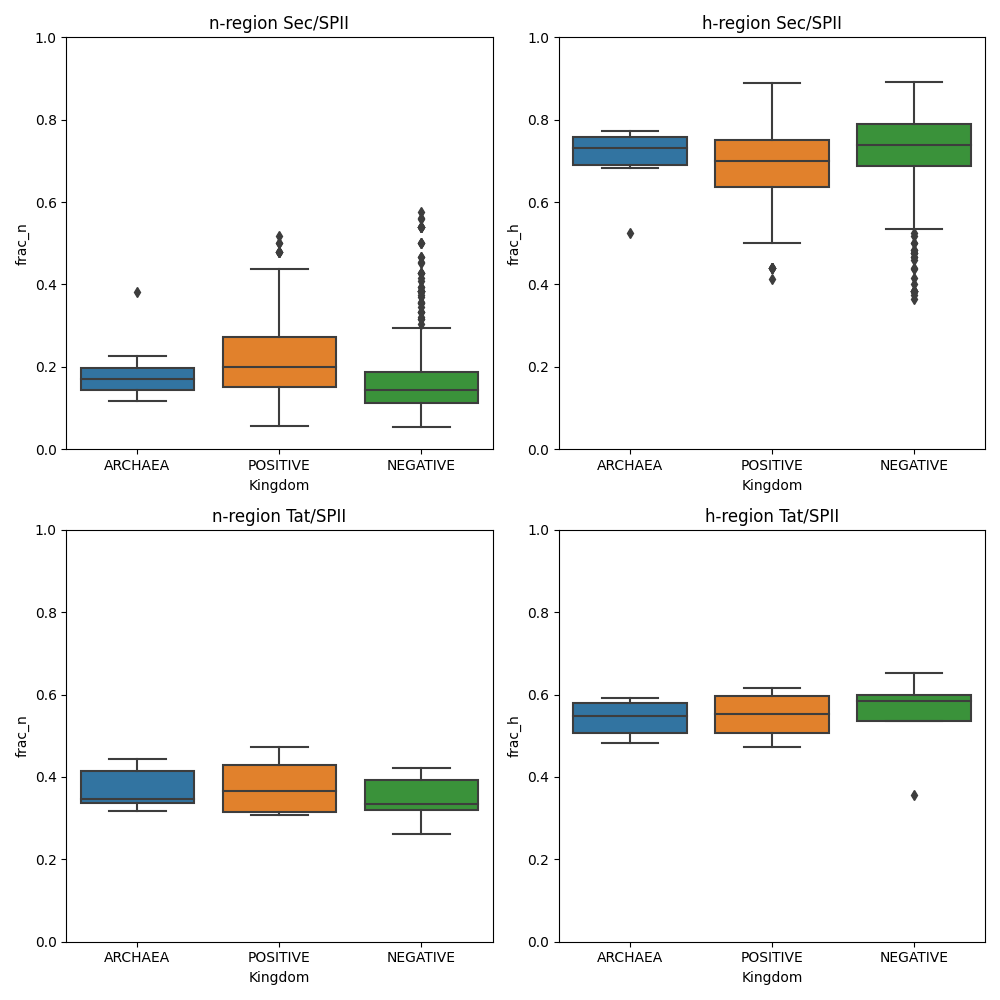
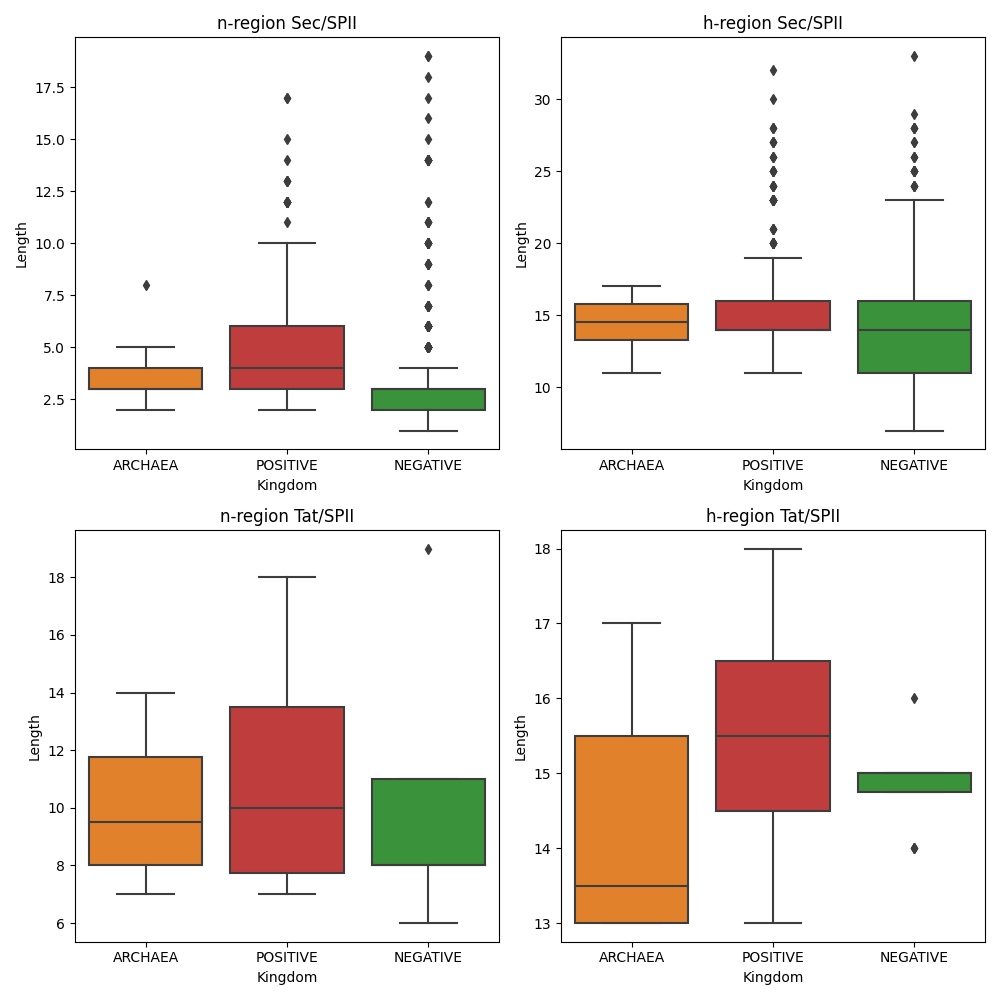
added more plots for spii and spiii for completeness

diff --git a/sp_prediction_experiments/signalp_6_evaluation_scripts/make_figures.py b/sp_prediction_experiments/signalp_6_evaluation_scripts/make_figures.py
@@ -29,7 +29,7 @@ def get_sp_len(token_ids):
 
 def get_n_len(token_ids):
     token_ids = np.array(token_ids)
-    sp_pos = np.isin(token_ids, [3,9,16,23])
+    sp_pos = np.isin(token_ids, [3,9,16,23, 31])
     pos_indices = np.where(sp_pos)[0]
     return pos_indices.max() - pos_indices.min() +1 if len(pos_indices) >0 else np.nan
 
@@ -52,7 +52,7 @@ def count_aas(sequence, token_ids, skip_n_methionine=False):
     
     sequence = np.array([aas[x] for x in sequence])
     #count aas in n
-    sp_pos = np.where(np.isin(token_ids, [3,9,16,23]))[0]
+    sp_pos = np.where(np.isin(token_ids, [3,9,16,23,31]))[0]
     if len(sp_pos)>0:
         start = 1 if skip_n_methionine else sp_pos.min()
         end = sp_pos.max() +1
@@ -456,6 +456,45 @@ def main():
         plt.savefig(os.path.join(args.output_dir, 'spi_charges.png'))
 
 
+        ##SPII charges
+        plot_df = df.loc[df['Type'] =='LIPO']
+        plt.figure(figsize = (10,10))
+        ax = plt.subplot(2,2,1)
+        sns.boxplot(x="Kingdom", y="charge_n", data=plot_df, palette=palette, hue_order=hue_order)
+        plt.ylabel('Net charge')
+        plt.title('n-region Sec/SPII')
+
+        plt.subplot(2,2,2, sharey=ax)
+        sns.boxplot(x="Kingdom", y="charge_h", data=plot_df, palette=palette, hue_order=hue_order)
+        plt.ylabel('Net charge')
+        plt.title('h-region Sec/SPII')
+
+        plot_df = df.loc[df['Type'] =='TATLIPO']
+        ax = plt.subplot(2,2,3)
+        sns.boxplot(x="Kingdom", y="charge_n", data=plot_df, palette=palette, hue_order=hue_order)
+        plt.ylabel('Net charge')
+        plt.title('n-region Tat/SPII')
+
+        plt.subplot(2,2,4, sharey=ax)
+        sns.boxplot(x="Kingdom", y="charge_h", data=plot_df, palette=palette, hue_order=hue_order)
+        plt.ylabel('Net charge')
+        plt.title('h-region Tat/SPII')
+
+        plt.tight_layout()
+        plt.savefig(os.path.join(args.output_dir, 'spii_charges.png'))
+        plt.close()
+
+        ## SPIII charges
+        plot_df = df.loc[df['Type'] =='PILIN']
+        plt.figure(figsize = (5,5))
+        sns.boxplot(x="Kingdom", y="charge_n", data=plot_df, palette=palette, hue_order=hue_order)
+        plt.ylabel('Net charge')
+        plt.title('Sec/SPIII')
+
+        plt.savefig(os.path.join(args.output_dir, 'spiii_charges.png'))
+        plt.close()
+
+
         ## n-region hydrophobicity
         plt.figure(figsize = (20,5))
 
@@ -485,7 +524,7 @@ def main():
         
         plt.tight_layout()
         plt.savefig(os.path.join(args.output_dir, 'n_region_hydrophobicity.png'))
-
+        plt.close()
 
         ## h-region hydrophobicity
         plt.figure(figsize = (20,5))
@@ -516,7 +555,8 @@ def main():
         
         plt.tight_layout()
         plt.savefig(os.path.join(args.output_dir, 'h_region_hydrophobicity.png'))
-
+        plt.close()
+        
         ## c-region hydrophobicity
         plt.figure(figsize = (10,5))
 
@@ -535,7 +575,16 @@ def main():
 
         plt.tight_layout()
         plt.savefig(os.path.join(args.output_dir, 'c_region_hydrophobicity.png'))
+        plt.close()
 
+        ## SPIII hydrophobicity
+        plot_df = df.loc[df['Type'] =='PILIN']
+        plt.figure(figsize = (5,5))
+        sns.boxplot(x="Kingdom", y="hydrophobicity_n", data=plot_df, palette=palette, hue_order=hue_order)
+        plt.ylabel('Hydrophobicity')
+        plt.title('Sec/SPIII')
+        plt.savefig(os.path.join(args.output_dir, 'spiii_hydrophobicity.png'))
+        plt.close()
 
         ## amino acid compositions per region, per kingdom, per class
         dist_list = []
@@ -635,6 +684,7 @@ def main():
 
         plt.tight_layout()
         plt.savefig(os.path.join(args.output_dir, 'regions_aa_distributions.png'))
+        plt.close()
 
 
         ## relative region lengths
@@ -681,6 +731,7 @@ def main():
 
         plt.tight_layout()
         plt.savefig(os.path.join(args.output_dir, 'regions_relative_lengths.png'))
+        plt.close()
 
 
         plot_df = df.loc[df['Type'] =='SP']
@@ -727,6 +778,7 @@ def main():
 
         plt.tight_layout()
         plt.savefig(os.path.join(args.output_dir, 'spi_absolute_lengths.png'))
+        plt.close()
 
 
         plot_df = df.loc[df['Type'] =='LIPO']
@@ -761,6 +813,48 @@ def main():
 
         plt.tight_layout()
         plt.savefig(os.path.join(args.output_dir, 'spii_relative_lengths.png'))
+        plt.close()
+
+
+        plot_df = df.loc[df['Type'] =='LIPO']
+
+        plt.figure(figsize = (10,10))
+        plt.subplot(2,2,1)
+        sns.boxplot(x="Kingdom", y="len_n", data=plot_df, palette=palette, hue_order=hue_order)
+        plt.title('n-region Sec/SPII')
+        plt.ylabel('Length')
+
+        plt.subplot(2,2,2)
+        sns.boxplot(x="Kingdom", y="len_h", data=plot_df, palette=palette, hue_order=hue_order)
+        plt.title('h-region Sec/SPII')
+        plt.ylabel('Length')
+
+        plot_df = df.loc[df['Type'] =='TATLIPO']
+
+        plt.subplot(2,2,3)
+        sns.boxplot(x="Kingdom", y="len_n", data=plot_df, palette=palette, hue_order=hue_order)
+        plt.title('n-region Tat/SPII')
+        plt.ylabel('Length')
+
+        plt.subplot(2,2,4)
+        sns.boxplot(x="Kingdom", y="len_h", data=plot_df, palette=palette, hue_order=hue_order)
+        plt.title('h-region Tat/SPII')
+        plt.ylabel('Length')
+
+        plt.tight_layout()
+        plt.savefig(os.path.join(args.output_dir, 'spii_absolute_lengths.png'))
+        plt.close()
+
+
+        ## SPIII lengths
+        plot_df = df.loc[df['Type'] =='PILIN']
+        plt.figure(figsize = (5,5))
+        sns.boxplot(x="Kingdom", y="len_n", data=plot_df, palette=palette, hue_order=hue_order)
+        plt.ylabel('Length')
+        plt.title('Sec/SPIII')
+
+        plt.savefig(os.path.join(args.output_dir, 'spiii_absolute_lengths.png'))
+        plt.close()
 
 ####
 #    Kingdom randomization plots
